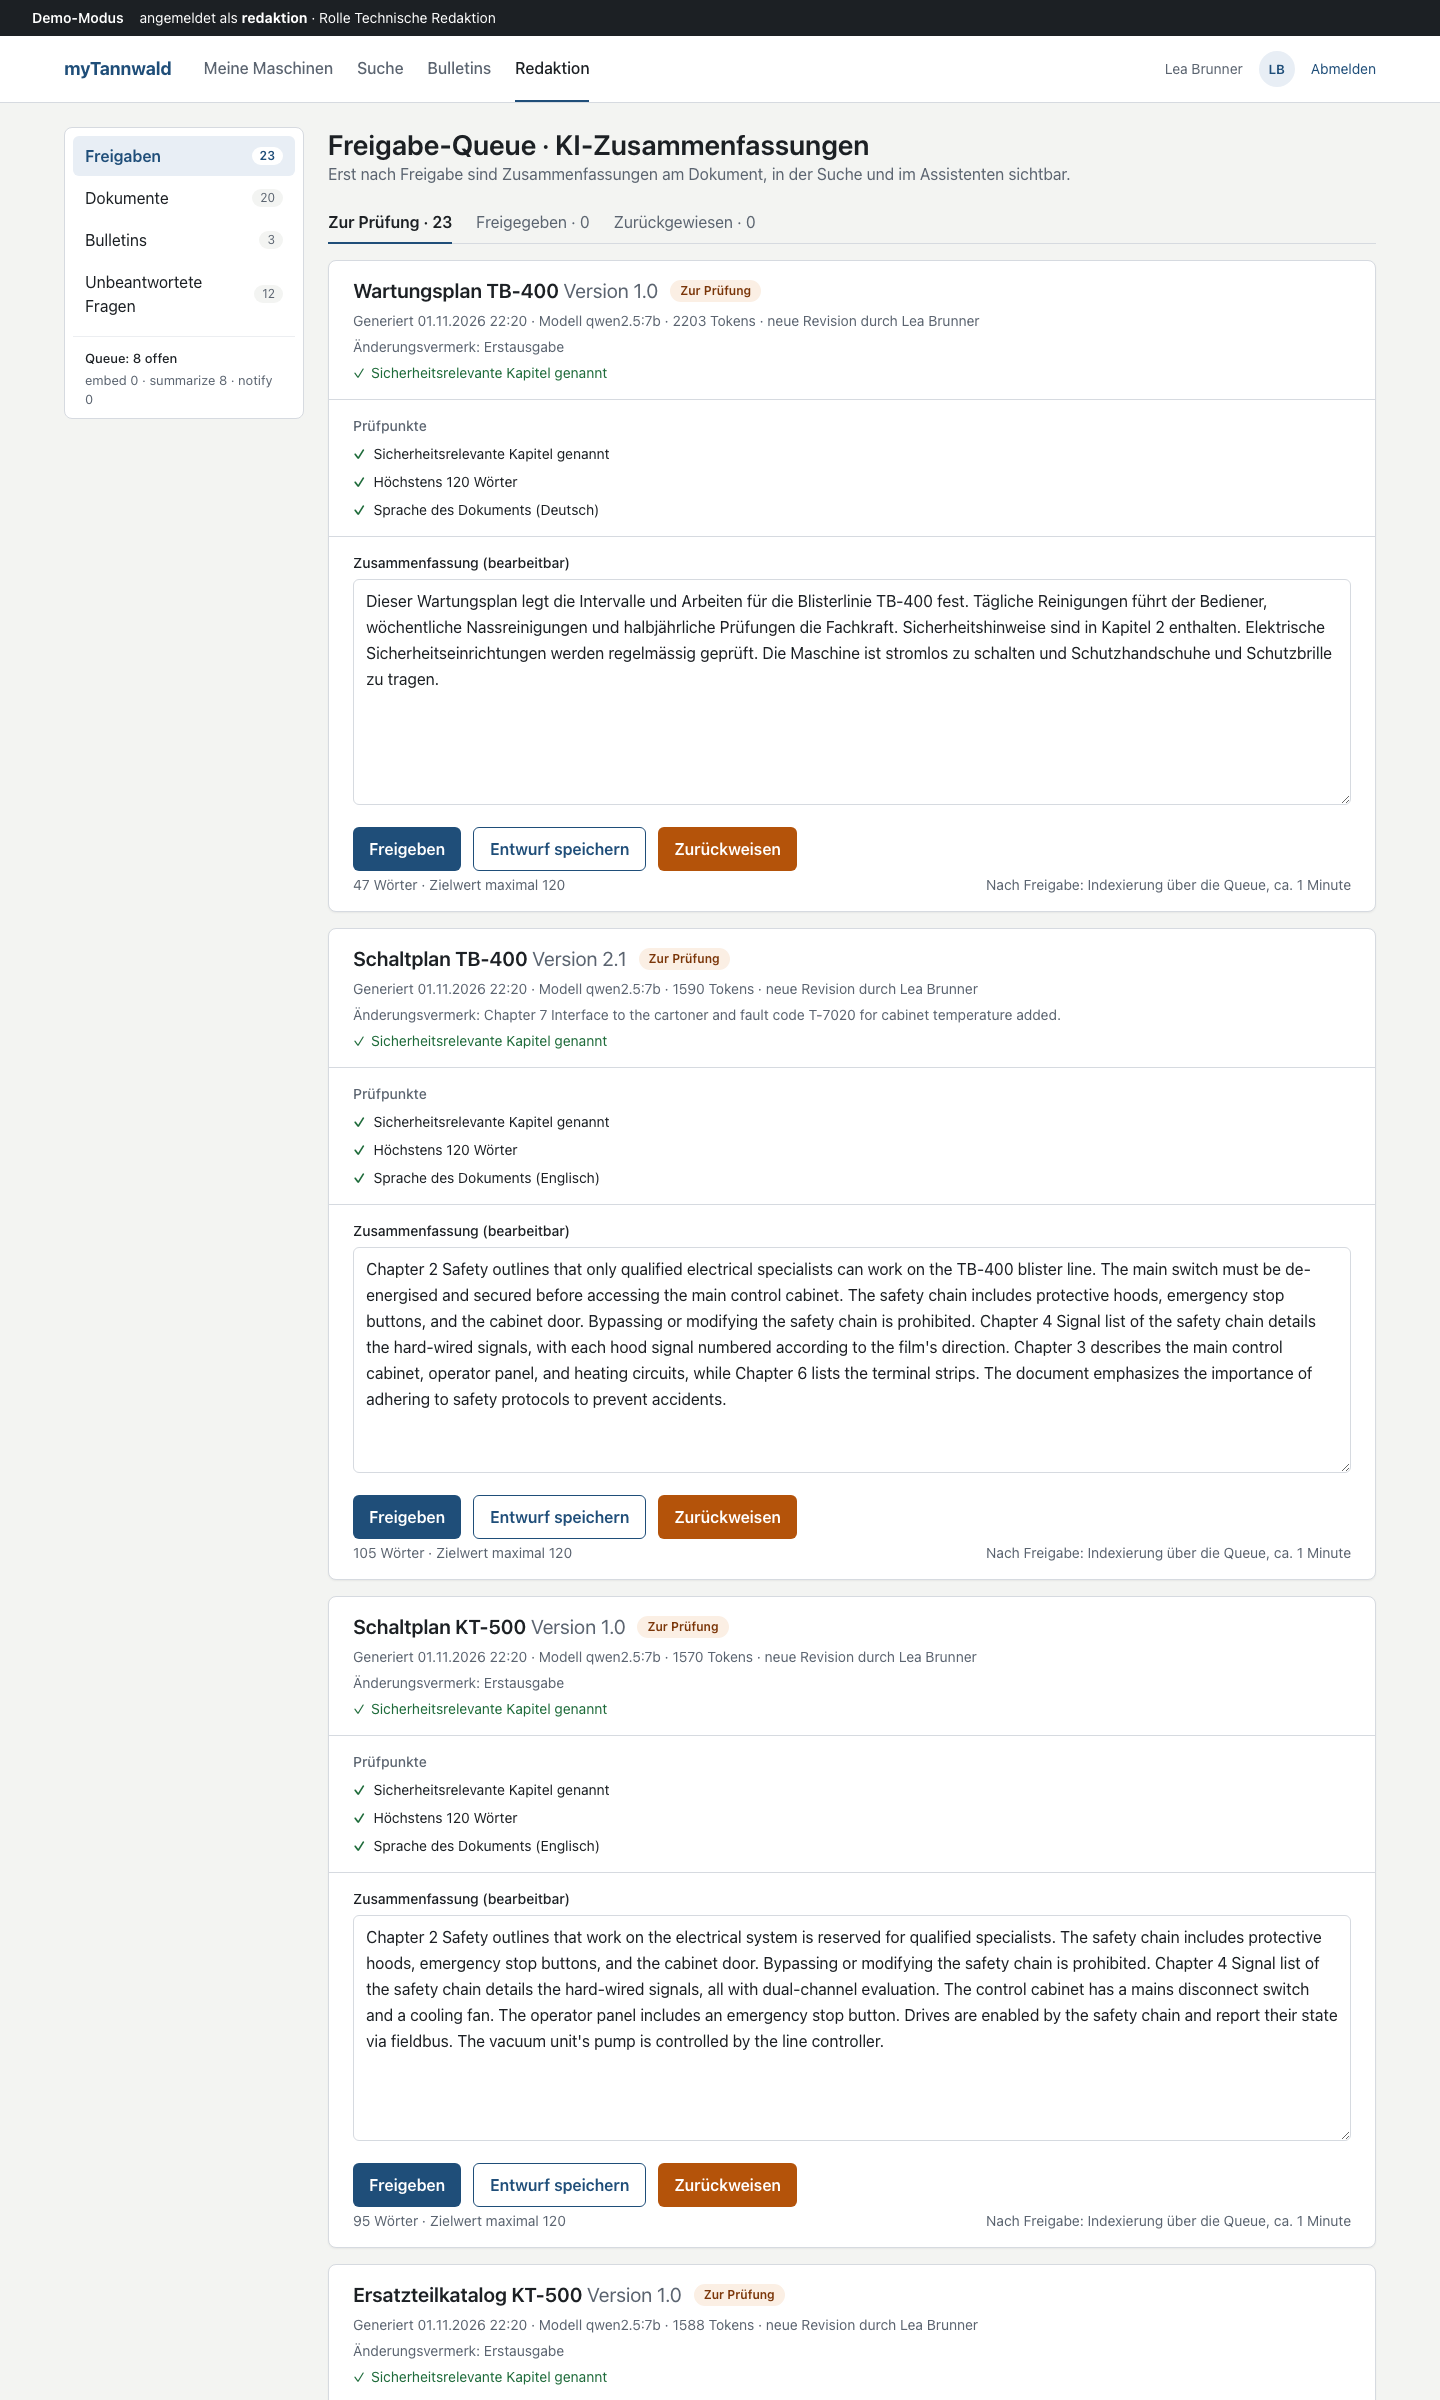
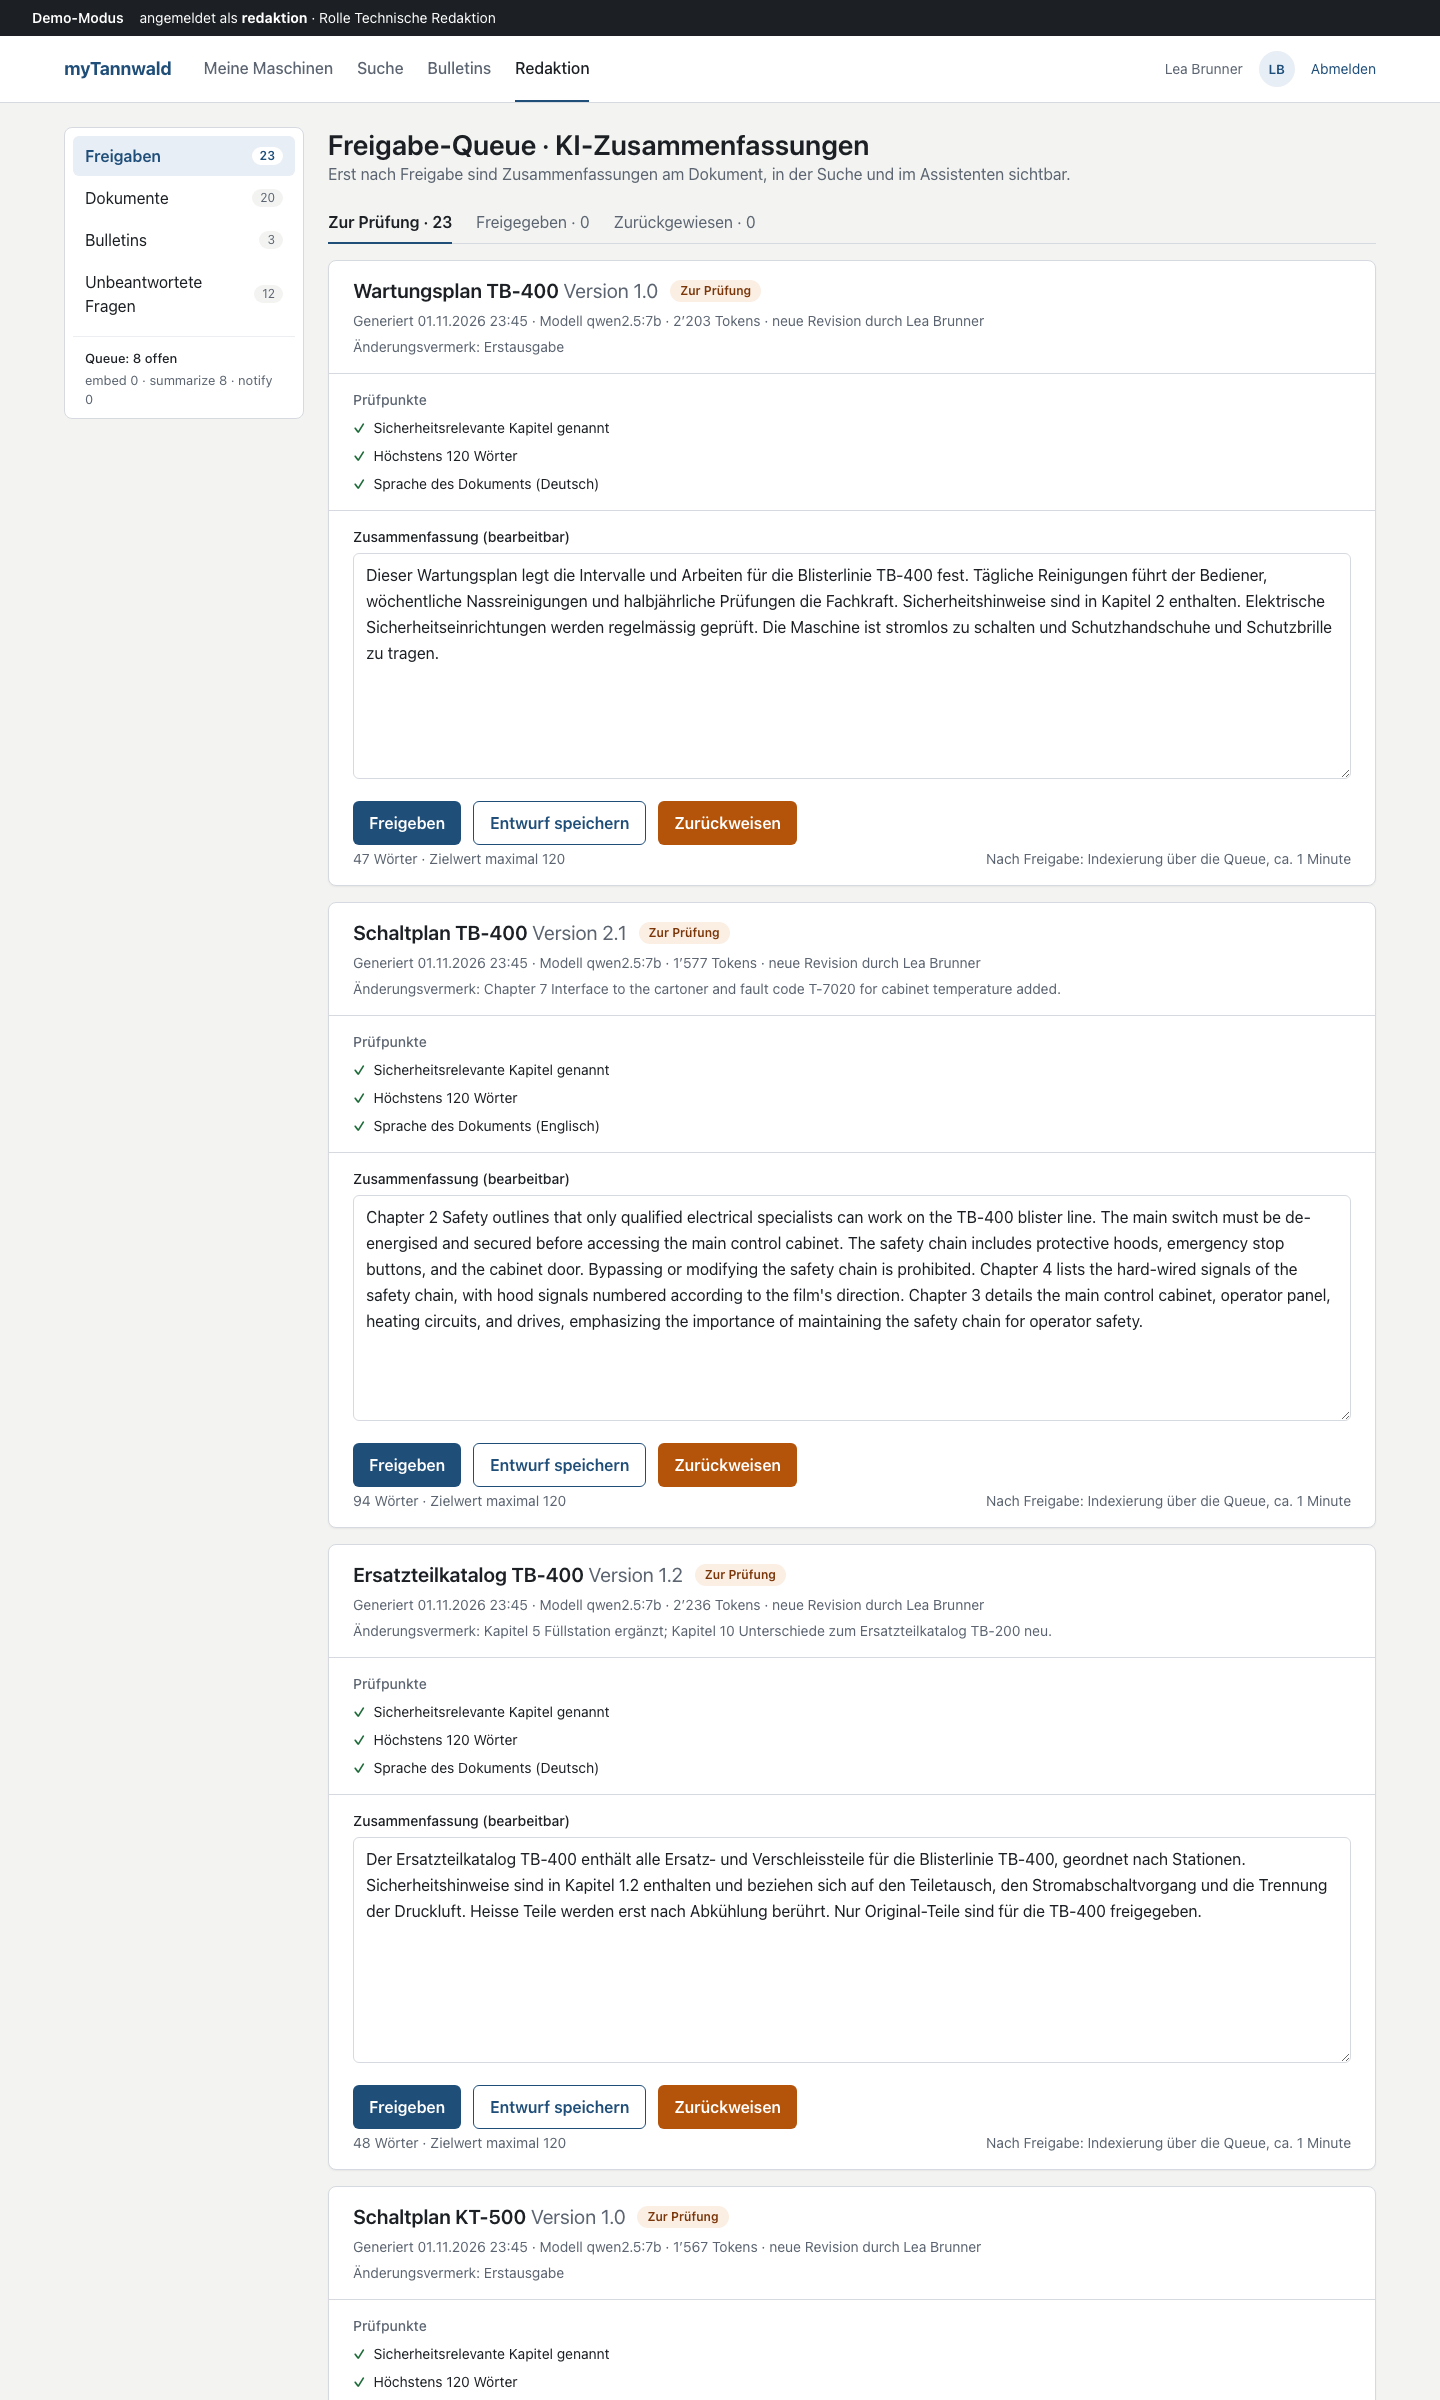
6.3 docs: screen 03 at the reseeded queue (23 in review); README quickstart as in the 6.2 script contract

diff --git a/README.md b/README.md
@@ -214,13 +214,14 @@ keine Geheimnisse und nennt am Ende das Ergebnis. Voraussetzungen: macOS mit Hom
 braucht keinen API-Schlüssel (Ollama lokal, Modelle `bge-m3` und `qwen2.5:7b`, etwa 6 GB Download).
 
 ```
-bash scripts/tannwald-run.sh --vorbereitung   # prüft brew, Docker, DDEV, mkcert, Ollama; installiert nur Fehlendes
-bash scripts/tannwald-run.sh --lokal          # DDEV, Drupal, Konfiguration, Seeder, Login-Link; endet mit FERTIG
-bash scripts/tannwald-run.sh --probe          # liest nur; endet mit „Bereit: ja“ oder „Bereit: NEIN — fehlt: …“
-bash scripts/tannwald-run.sh --reset          # Demo-Daten zurücksetzen (tannwald:demo-reset)
-bash scripts/tannwald-run.sh --eval           # voller Eval-Lauf, schreibt docs/evals/ergebnisse-<datum>.md
-bash scripts/tannwald-run.sh --frisch         # Klon-Probe in einem eigenen DDEV-Projekt
+bash scripts/tannwald-run.sh --vorbereitung   # einmal: ddev, mkcert, Ollama, Modelle
+bash scripts/tannwald-run.sh --lokal          # Start, Install, Seeder, Kurzprobe, Login-Link (~1 min, erster Lauf ~4 min)
+bash scripts/tannwald-run.sh --probe          # liest; „Bereit: ja“
+bash scripts/tannwald-run.sh --eval           # voller Eval-Lauf, 15–25 min
 ```
+
+Aufruf aus dem Repo-Ordner. Weitere Modi: `--reset` (Demo-Daten zurücksetzen) und `--frisch` (Klon-Probe in einem eigenen
+DDEV-Projekt); Prüfstand des Skripts: `bash scripts/pruefstand/pruefstand.sh`.
 
 Das Skript führt diese Befehlsfolge aus: `ddev start`, `ddev composer install`,
 `ddev drush site:install --existing-config -y` (nur auf leerer Datenbank), `ddev drush updatedb -y`,
